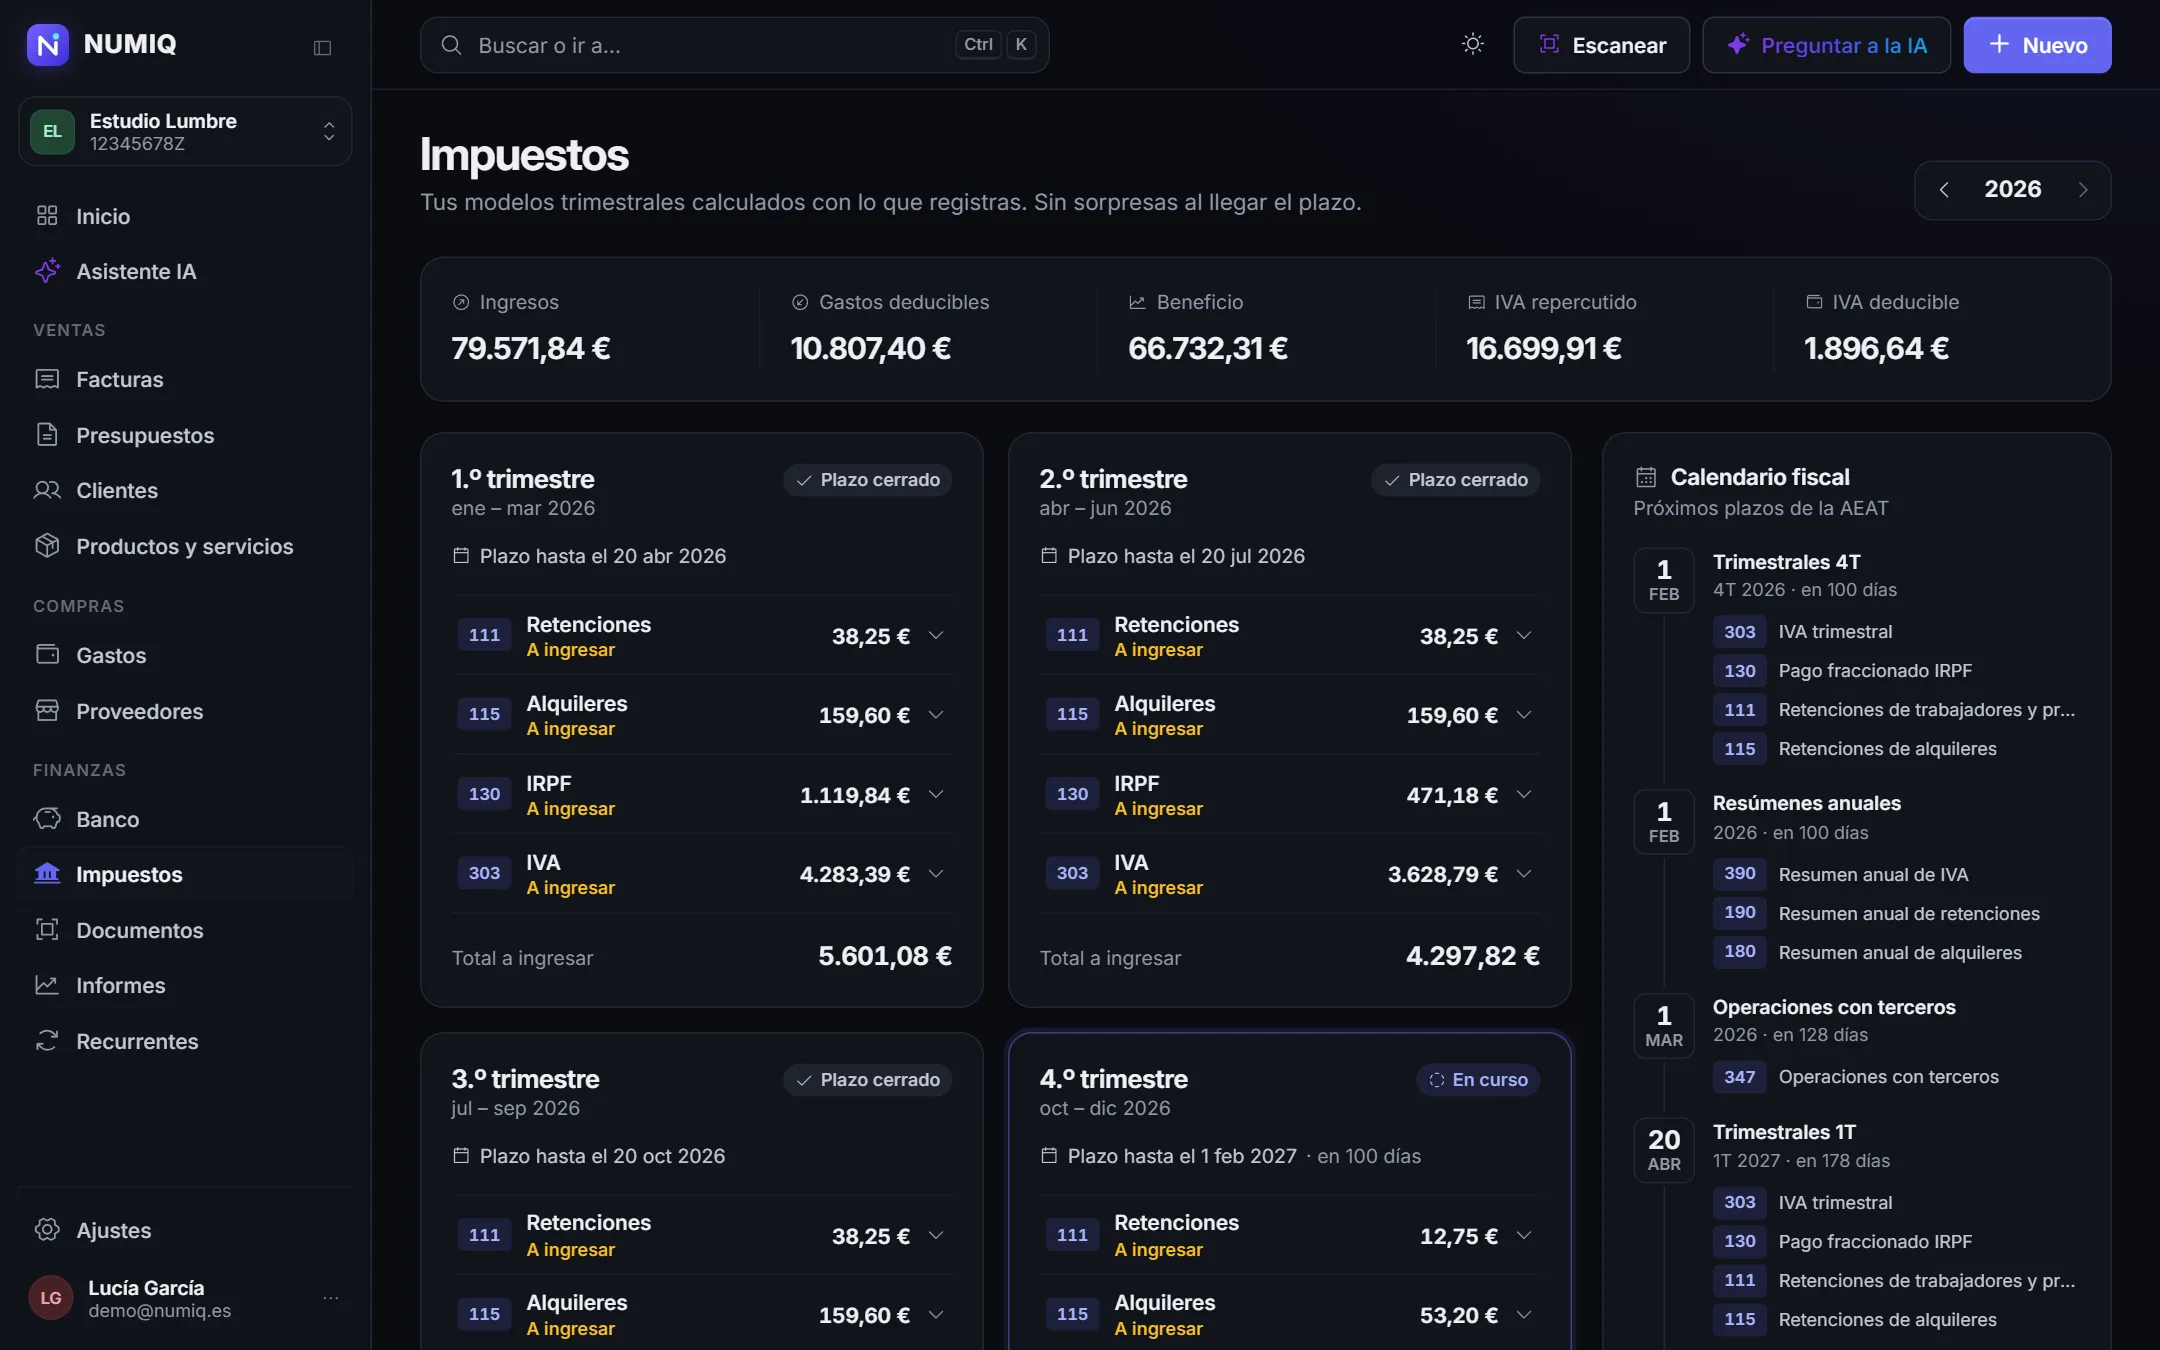
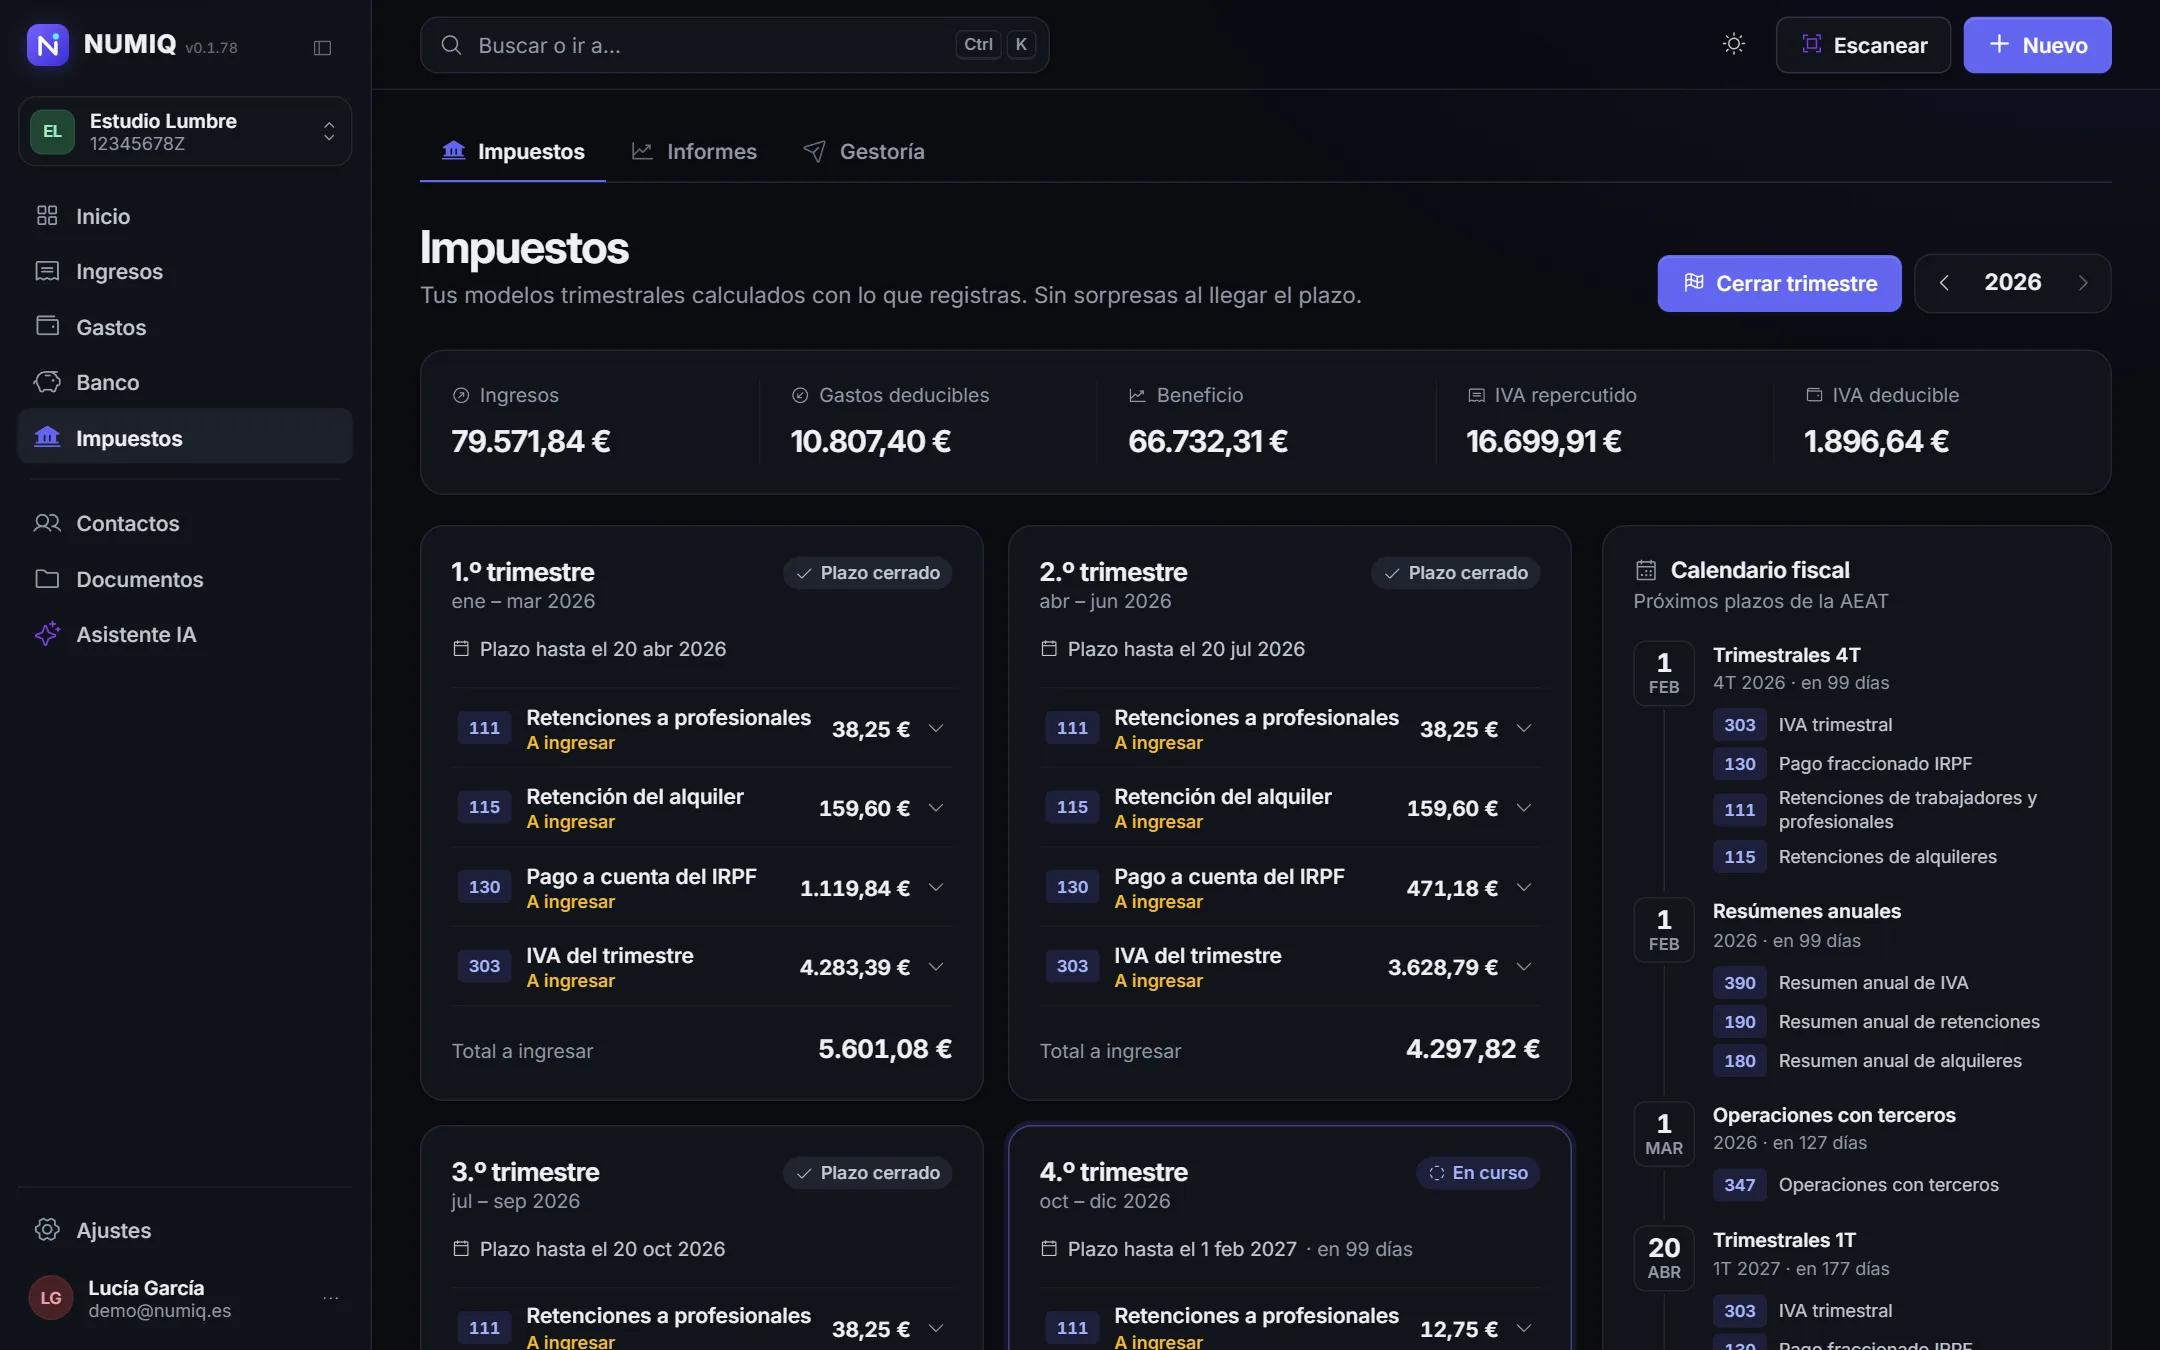
docs: README matches what the app does today
Feature table now covers quotes (four states, sent by email), the client
page for invoices, contact import and merge, fixed expenses, models 200/202,
quarter close, passkeys, push and the PWA; VeriFactu and the certificate are
listed as disabled. Mail receiving, IMAP and certificate vars are gone from
the docs. Screenshots regenerated. Push texts no longer mention quotes.

diff --git a/server/api/push/test.post.ts b/server/api/push/test.post.ts
@@ -2,7 +2,7 @@
 export default defineEventHandler(async (event) => {
   const user = await requireUser(event)
   rateLimit(`push-test:${user.id}`, 5, 10 * 60_000, 'Ya has enviado varias pruebas: espera un poco')
-  const r = await sendPush([user.id], { title: 'NUMIQ', body: 'Así te avisaremos cuando un cliente abra tu factura, acepte un presupuesto o se acerque un plazo.', url: '/', tag: 'test' })
+  const r = await sendPush([user.id], { title: 'NUMIQ', body: 'Así te avisaremos cuando un cliente abra tu factura o se acerque un plazo.', url: '/', tag: 'test' })
   if (!r.sent) throw createError({ statusCode: 404, statusMessage: 'No hay ningún dispositivo con los avisos activados' })
   return r
 })

diff --git a/app/components/settings/PushPanel.vue b/app/components/settings/PushPanel.vue
@@ -5,8 +5,7 @@ const push = usePush()
 const busy = ref<'toggle' | 'test' | null>(null)
 
 const WHAT = [
-  { icon: 'ph:eye', text: 'Un cliente abre tu factura o tu presupuesto' },
-  { icon: 'ph:thumbs-up', text: 'Acepta o rechaza un presupuesto' },
+  { icon: 'ph:eye', text: 'Un cliente abre tu factura' },
   { icon: 'ph:arrows-clockwise', text: 'Se emite sola una factura recurrente' },
   { icon: 'ph:sparkle', text: 'La IA termina de leer tus documentos' },
   { icon: 'ph:bank', text: 'Quedan pocos días para presentar impuestos' },

diff --git a/README.md b/README.md
@@ -10,7 +10,7 @@ App web instalable (PWA), responsive y en español. Varias empresas por cuenta y
 
 <picture>
   <source media="(prefers-color-scheme: dark)" srcset=".github/assets/screenshots/inicio-dark.webp">
-  <img src=".github/assets/screenshots/inicio-light.webp" alt="Panel de inicio de NUMIQ: facturado, gastos, beneficio y pendiente de cobro del trimestre, gráfico de los últimos 12 meses y recomendaciones del asesor IA" width="100%">
+  <img src=".github/assets/screenshots/inicio-light.webp" alt="Panel de inicio de NUMIQ: tareas de hoy, dinero libre, facturado, gastos y pendientes del trimestre" width="100%">
 </picture>
 
 ---
@@ -19,16 +19,21 @@ App web instalable (PWA), responsive y en español. Varias empresas por cuenta y
 
 | Área | Funciones |
 |---|---|
-| **Ingresos** | Facturas, presupuestos y rectificativas con numeración por series. Diseño de factura a medida (logo, colores, tipografías, textos por defecto) y PDF generado en el servidor. Envío por correo con PDF y adjuntos. Página pública para el cliente (`/p/:token`): ver, descargar, aceptar o rechazar presupuestos y datos de pago, con aviso de lectura. Cobros parciales y recordatorios de pago automáticos. |
-| **Catálogo y contactos** | Productos y servicios con imagen, precio, IVA y unidad, que se sugieren al escribir el concepto de una línea. Clientes y proveedores con validación de NIF/CIF/NIE y NIF-IVA, retención IRPF, recargo de equivalencia y categoría de gasto por defecto. Relleno con IA a partir de una firma, una foto o un PDF. Sin fichas repetidas: el mismo NIF no se da de alta dos veces y un nombre parecido («Endesa» y «Endesa Energía, S.A.U.») reutiliza la ficha existente y la completa. |
-| **Gastos** | Registro manual o leído con IA desde foto, PDF, Word o Excel. Importación por lotes (PDF, imágenes, Word, Excel, CSV, XML o un ZIP con todo). Nada se registra dos veces: antes de guardar se compara con lo que ya hay por número (aunque cambien ceros o separadores), proveedor, importe, fecha y concepto. Lo seguro se bloquea y lo probable se pregunta; un ticket escaneado se adjunta al gasto que ya se creó desde el banco. Gastos deducibles según la normativa. |
-| **Banco** | Importación de extractos (Norma 43, CSV, Excel; si el formato es desconocido, la IA identifica las columnas). Un extracto solapado o del mismo periodo en otro formato no repite movimientos, y sin IBAN se reconoce la cuenta por los movimientos que ya tiene. Conciliación de movimientos con facturas y gastos: si el gasto o el cobro ya estaba anotado se enlaza en vez de crear otro. Saldo por cuenta. |
-| **Impuestos** | Borradores de los modelos 303, 130, 111 y 115 (trimestrales) y 390, 190, 180 y 347 (anuales) con sus casillas, listos para copiar en la Sede de la AEAT. Guía de presentación y lectura con IA del justificante. |
-| **Gestoría** | Archivo documental por trimestre (banco, contratos, nóminas…). «Envío al gestor»: ZIP con emitidas, recibidas con sus originales, archivo y resumen en Excel y PDF, enviado con enlace seguro. Rol *asesor* con acceso de solo lectura. |
-| **Recurrentes** | Cuotas, igualas, alquileres y suscripciones que se generan solos en su fecha, como borrador o emitidos y enviados. |
-| **Informes** | Panel de inicio, informes por periodo, libros registro y exportación a Excel y PDF. |
+| **Ingresos** | Facturas, rectificativas, proformas y presupuestos con numeración por series. Importación de facturas emitidas en otro programa conservando su número. Diseño de factura a medida (logo, colores, tipografías, textos por defecto) y PDF generado en el servidor. Envío por correo con PDF y adjuntos. Cobros parciales y recordatorios de pago automáticos. |
+| **Presupuestos** | Cuatro estados: pendiente, enviado, aceptado y rechazado. Se cambian a mano desde la lista (también varios a la vez), la ficha o el editor; no hay borradores ni caducidad, y un presupuesto con la validez pasada no se marca como vencido. Se envían por email con su PDF y se convierten en factura con un clic. |
+| **Página para el cliente** | Cada factura tiene un enlace privado (`/p/:token`) para verla, descargarla y pagarla: IBAN con datos para copiar, enlace de pago propio (Stripe, PayPal, SumUp…) o Bizum. Aviso cuando el cliente la abre. Se comparte por email, copiando el enlace o por WhatsApp. |
+| **Catálogo y contactos** | Productos y servicios con imagen, precio, IVA y unidad, que se sugieren al escribir el concepto de una línea. Clientes y proveedores con validación de NIF/CIF/NIE y NIF-IVA, retención IRPF, recargo de equivalencia, categoría de gasto por defecto y mapa de la dirección. Relleno con IA a partir de una firma, una foto o un PDF, e importación masiva (Excel, CSV, PDF, Word, foto o vCard) con revisión antes de guardar y opción de deshacer. Sin fichas repetidas: el mismo NIF no se da de alta dos veces, un nombre parecido («Endesa» y «Endesa Energía, S.A.U.») reutiliza la ficha existente y los duplicados que ya haya se fusionan. |
+| **Gastos** | Registro manual o leído con IA desde foto, PDF, Word o Excel, con un escáner siempre a mano. Importación por lotes (PDF, imágenes, Word, Excel, CSV, XML o un ZIP con todo). Nada se registra dos veces: antes de guardar se compara con lo que ya hay por número (aunque cambien ceros o separadores), proveedor, importe, fecha y concepto. Lo seguro se bloquea y lo probable se pregunta; un ticket escaneado se adjunta al gasto que ya se creó desde el banco. Gastos deducibles según la normativa. Aprobación opcional de los gastos que registra el equipo. |
+| **Banco** | Importación de extractos (Norma 43, CSV, Excel; si el formato es desconocido, la IA identifica las columnas). Un extracto solapado o del mismo periodo en otro formato no repite movimientos, y sin IBAN se reconoce la cuenta por los movimientos que ya tiene. Conciliación con facturas y gastos, en bloque para las coincidencias seguras: si el gasto o el cobro ya estaba anotado se enlaza en vez de crear otro. Saldo por cuenta. |
+| **Impuestos** | Borradores de los modelos 303, 130, 111 y 115 (trimestrales), 390, 190, 180 y 347 (anuales) y, para sociedades, 200 y 202, con sus casillas listas para copiar en la Sede de la AEAT. Calendario fiscal y «Cerrar trimestre» paso a paso: datos al día, presentar y pagar cada modelo y enviarlo a la gestoría. Cada modelo se marca como presentado con su justificante, que lee la IA. La presentación se hace en la Sede (Cl@ve, DNIe o certificado del propio usuario): NUMIQ no presenta en nombre del usuario. |
+| **Gestoría** | Archivo documental por trimestre (banco, contratos, nóminas…). «Envío al gestor» de un mes, trimestre, año o rango libre: ZIP con emitidas, recibidas con sus originales, archivo y resumen en Excel y PDF, enviado con un enlace seguro que caduca a los 30 días. Rol *asesor* con acceso de solo lectura. |
+| **Recurrentes** | Facturas periódicas (cuotas, igualas, mantenimientos) que se generan solas en su fecha, como borrador o emitidas y enviadas. Gastos fijos (alquiler, suscripciones, cuota de autónomos) que se anotan solos sin duplicar el que ya exista en ese periodo. |
+| **Inicio e informes** | Inicio con las tareas de «Hoy», el dinero libre (saldo menos impuestos y pagos pendientes) y recomendaciones del Asesor NUMIQ. Informes por periodo con comparativa, cuenta de resultados, IVA por tipo, retenciones, mejores clientes y proveedores y antigüedad de los cobros; exportación a PDF, Excel y libros registro en CSV. Las listas abren en el año en curso, con un selector de año, trimestre o mes que se recuerda entre pantallas. |
 | **Asistente IA** | Chat que consulta los datos de la empresa (ventas, gastos, impuestos, banco…) y opera sobre ellos: reasignar clientes, aplicar retenciones, clasificar o ignorar movimientos del banco, cambiar categorías, marcar cobros y pagos, emitir, eliminar o dar de alta registros. Cada cambio llega como una propuesta con los registros exactos que el usuario confirma (botón o «sí»), queda auditado y, si se puede, se deshace con un clic. |
-| **Cuenta y equipo** | Registro con verificación de email, recuperación de contraseña e invitaciones con roles (`owner`, `admin`, `member`, `advisor`). Copia de seguridad completa en ZIP desde Ajustes. Modo claro y oscuro. |
+| **Cuenta y equipo** | Registro con verificación de email, recuperación de contraseña y acceso con passkey (huella, cara o PIN del dispositivo). Invitaciones con roles (`owner`, `admin`, `member`, `advisor`). Copia de seguridad desde Ajustes: archivo de la empresa en formatos abiertos (Excel, JSON y PDF) o clonación de la instalación completa. Modo claro y oscuro. |
+| **App y avisos** | PWA instalable con accesos directos (escanear, nueva factura, añadir gasto, asistente) y aviso de nueva versión. Notificaciones push por dispositivo: el cliente abre una factura, se emite una recurrente, la IA termina de leer documentos, se acerca un plazo de impuestos o hay gastos del equipo por aprobar. |
+
+**Desactivado por ahora:** VeriFactu y el certificado digital de la empresa. El código sigue en el proyecto, pero la app no genera registros VeriFactu ni admite subir certificados.
 
 ---
 
@@ -112,8 +117,11 @@ Cuenta de demostración con datos ficticios. Las imágenes siguen el tema claro 
 - **MariaDB / MySQL** con **Drizzle ORM** (`mysql2`) y migraciones SQL versionadas.
 - **Zod 4** para validar las entradas de la API y **nuxt-auth-utils** para sesiones en cookie cifrada.
 - **pdfmake** para los PDF, **SheetJS** para los Excel y **fflate** para los ZIP.
-- **nodemailer** (SMTP) para enviar e **imapflow** con **mailparser** para recibir.
-- **OpenAI** para leer documentos y para el asistente, y **node-forge** para los certificados .p12/.pfx.
+- **nodemailer** (SMTP) para el correo y **web-push** para las notificaciones.
+- **OpenAI** para leer documentos y para el asistente.
+- **Passkeys** con **@simplewebauthn**, a través de nuxt-auth-utils.
+- **pdf.js**, **pdf-lib** y **docx-preview** para las vistas previas de documentos, y **exifr** para sus fechas.
+- **MapLibre GL** con mapas de OpenFreeMap y direcciones de CartoCiudad (IGN).
 
 Requisitos: **Node.js ≥ 22.22**. En local no hace falta instalar MySQL (ver más abajo).
 
@@ -157,12 +165,11 @@ Plantilla completa y comentada en [`.env.example`](.env.example). Las claves rea
 | `NUXT_SITE_URL` | URL pública para los enlaces de los correos y la imagen al compartir un enlace (`og:image`, se fija al compilar), sin barra final. |
 | `NUXT_OPENAI_API_KEY` | IA: lectura de documentos, importación, relleno de contactos y asistente. |
 | `NUXT_OPENAI_MODEL` · `NUXT_OPENAI_PRO_MODEL` · `NUXT_OPENAI_CHAT_MODEL` · `NUXT_OPENAI_CONCURRENCY` | Opcionales: modelo de lectura rápida, modelo de segunda lectura cuando los importes no cuadran, modelo del asistente y documentos leídos en paralelo. |
-| `GOOGLE_APP_EMAIL` · `GOOGLE_APP_PASSWORD` | Correo con Gmail o Workspace (contraseña de aplicación): envío por SMTP y recepción por IMAP. |
-| `NUXT_MAIL_SMTP_HOST` `…_PORT` `NUXT_MAIL_IMAP_HOST` `NUXT_MAIL_USER` `NUXT_MAIL_PASSWORD` `NUXT_MAIL_FROM` | Otro proveedor de correo en lugar de Gmail. |
-| `NUXT_MAIL_INBOX_OWNERS` | Usuarios que pueden buscar facturas en todo el buzón, no solo en su alias. |
+| `GOOGLE_APP_EMAIL` · `GOOGLE_APP_PASSWORD` | Correo con Gmail o Workspace (contraseña de aplicación) para enviar por SMTP. |
+| `NUXT_MAIL_SMTP_HOST` `…_PORT` `NUXT_MAIL_USER` `NUXT_MAIL_PASSWORD` `NUXT_MAIL_FROM` | Otro proveedor de correo en lugar de Gmail. |
 | `NUXT_MAIL_ONLY_TO` | **Modo pruebas:** solo salen correos a estas direcciones o `@dominios`; el resto se omite y queda registrado como no enviado. |
-| `NUXT_CERT_SECRET` | Clave para cifrar los certificados digitales. Si falta, se usa la de sesión, y cambiar esa obliga a volver a subir el certificado. |
-| `NUXT_RECURRING_DISABLED` · `NUXT_REMINDERS_DISABLED` | `true` apaga la tarea programada correspondiente. |
+| `NUXT_VAPID_PUBLIC_KEY` · `NUXT_VAPID_PRIVATE_KEY` | Opcionales: claves de las notificaciones push. Si faltan, se generan una vez y se guardan junto a la carpeta de subidas. |
+| `NUXT_RECURRING_DISABLED` · `NUXT_REMINDERS_DISABLED` · `NUXT_PUSH_DEADLINES_DISABLED` | `true` apaga la tarea programada correspondiente. |
 
 Sin `NUXT_OPENAI_API_KEY` la app funciona, pero sin las funciones de IA. Sin el correo configurado no sale ningún email: la verificación de cuenta se omite y los envíos quedan registrados como no enviados («Sin configurar»).
 
@@ -179,7 +186,7 @@ Sin `NUXT_OPENAI_API_KEY` la app funciona, pero sin las funciones de IA. Sin el 
 | `npm run db:generate` | Crea una migración a partir de `server/db/schema.ts`. |
 | `npm run db:migrate` · `npm run db:studio` | Aplica migraciones a mano o abre Drizzle Studio. |
 | `npm run clone:export` / `npm run clone:import <zip>` | Clona una instalación completa (todas las tablas y archivos) a otro servidor. |
-| `npm run test:*` | Pruebas de la importación: duplicados, fechas de archivo, lectura y vista previa. |
+| `npm run test:*` | Pruebas de la importación (duplicados, fechas de archivo, lectura y vista previa) y de los contactos (limpieza y coincidencias). `test:imports:integration` compila antes de probar. |
 
 ---
 
@@ -228,8 +235,10 @@ Se ejecutan dentro del propio servidor Nitro (`server/plugins`):
 | Tarea | Frecuencia |
 |---|---|
 | Recurrentes: genera las facturas y gastos que tocan | Cada 15 min. Usa un bloqueo por fila, así que es seguro con varias instancias. |
-| Recordatorios de cobro a clientes con facturas vencidas | Cada 20 min, de lunes a viernes de 9 a 19 h (hora de Madrid). |
+| Recordatorios de cobro a clientes con facturas vencidas | Cada 20 min, de lunes a viernes de 9 a 19 h (hora de Madrid), si el correo está configurado. |
+| Avisos push de plazos de impuestos con modelos sin presentar (5 días antes y el último día) | Cada hora, en horario laboral. |
 | Limpieza de escaneos no guardados y ZIP de gestoría caducados | Cada hora. |
+| Presupuestos al día: los borradores que queden se emiten y los caducados pasan a rechazados | Una vez, al arrancar. |
 
 ---
 
